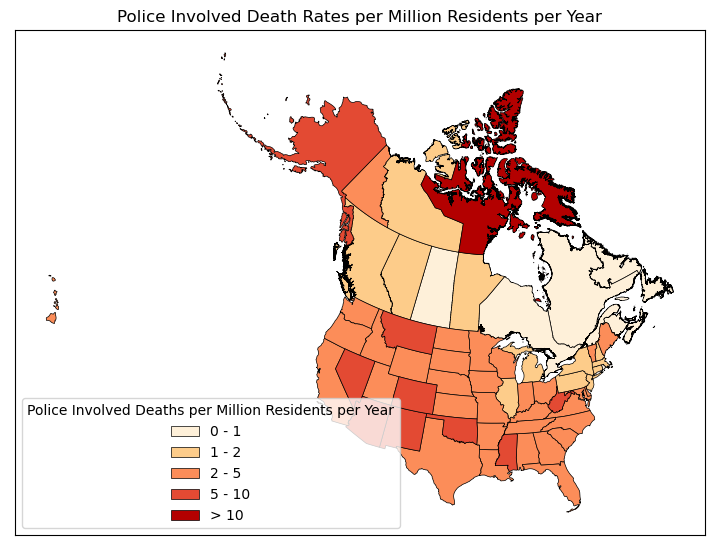
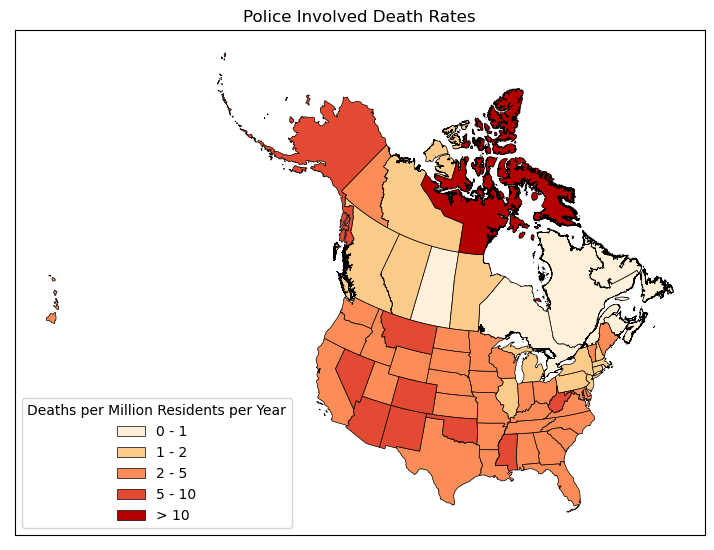
Nineteenth Psh

Changed region(s): [[0.0308, 0.7109, 0.5854, 0.9582], [0.1541, 0.0, 0.7703, 0.0618], [0.7703, 0.0, 0.8319, 0.0618]]

diff --git a/Content/Looking_At_the_Data.md b/Content/Looking_At_the_Data.md
@@ -219,9 +219,9 @@ We can see that Indigenous and Black Canadians are 3.8 and 2.4 times more likely
 
 # 7) Mapping Police Involved Deaths
 
-### Nunavut has the highest Police Killing Rate of any administrative sub-division in Canada or the United States.   The numbers presented here are contradicted by the [CBC's own reporting](https://www.cbc.ca/news/canada/north/nunavut-police-related-death-rate-high-data-1.5645619).  This article suggests the death rates may be much higher across the north than presented here.
+### Nunavut has the highest Police Killing Rate of any administrative sub-division in Canada or the United States.
 
-
+The numbers presented here are contradicted by the [CBC's own reporting](https://www.cbc.ca/news/canada/north/nunavut-police-related-death-rate-high-data-1.5645619).  This article suggests the death rates may be much higher across the north than presented here.
 
 <div style="overflow: hidden;
   padding-top: 56.25%;
@@ -237,23 +237,6 @@ We can see that Indigenous and Black Canadians are 3.8 and 2.4 times more likely
  </iframe>
 </div>
 <a href="ManualBreaks_Map.png" target="_blank">View Image in New Tab</a>
-
-
-<div style="overflow: hidden;
-  padding-top: 56.25%;
-  position: relative">
-  <iframe src="ManualBreaks_Hist.png" title="Processes" scrolling="no" frameborder="0"
-    style="border: 0;
-   height: 100%;
-   left: 0;
-   position: absolute;
-   top: 0;
-   width: 100%;">
-   <p>Your browser does not support iframes.</p>
- </iframe>
-</div>
-<a href="ManualBreaks_Hist.png" target="_blank">View Image in New Tab</a>
-
 
 # 8) Highlighting the importance of data normalization
 
